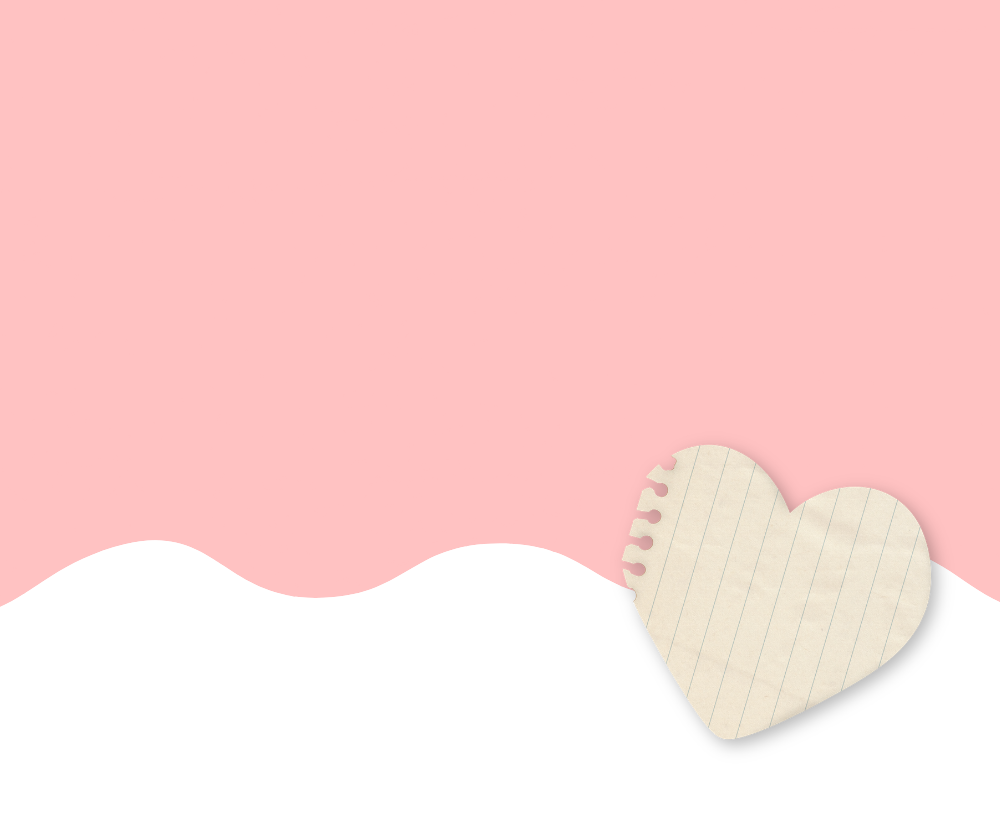
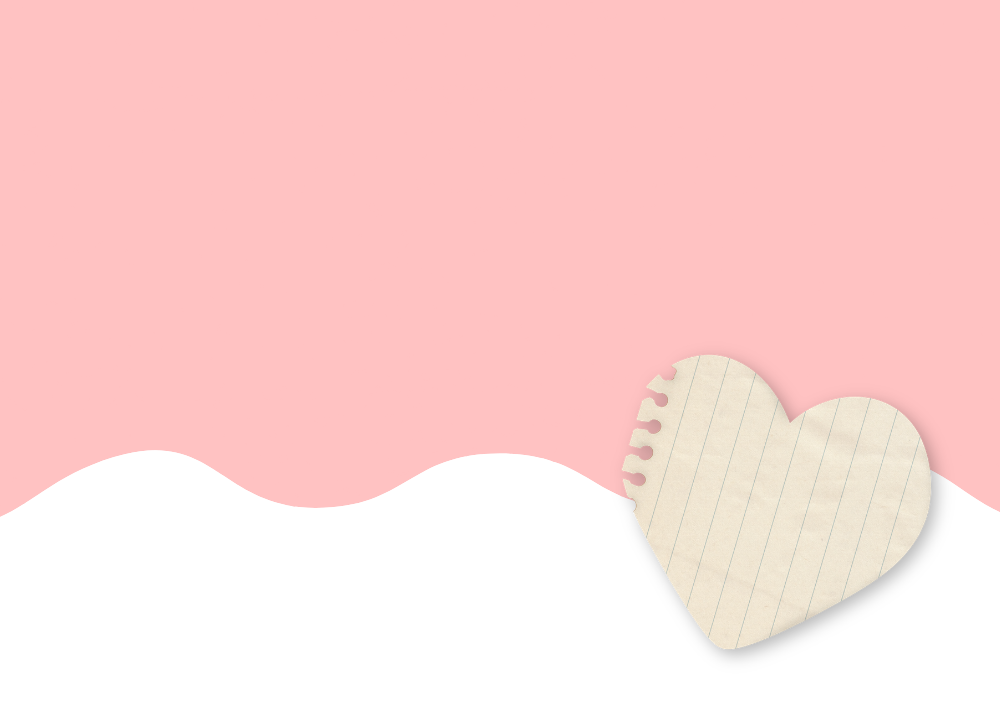
Finished Navigation Bar

Changed region(s): [[0.0, 0.4869, 1.0, 0.852], [0.713, 0.6999, 0.93, 0.9129], [0.682, 0.852, 0.713, 0.8824]]

diff --git a/style.css b/style.css
@@ -1,4 +1,61 @@
 
+@font-face {
+    font-family: "roca";
+    src: url(roca-one-bold/roca-one-bold.ttf);
+    font-style: normal;
+}
+
+nav {
+    position: sticky;
+    top: 0;
+    z-index: 1000; /* stays above content!!!!!!!! */
+    width: 100%;
+    background-color: var(--base-color);
+}
+
+nav ul {
+    list-style-type: none;
+    display: flex;
+    align-items: center;
+    gap: 1em;
+    font-size: 20px;
+    margin: 0;
+    padding: 0 35px;
+}
+
+nav li:last-child {
+    margin-left: auto;
+}
+
+nav li :hover {
+    transition: 100ms ease;
+    scale: 1.05;
+}
+
+a {
+    text-decoration: none;
+}
+
+h2 {
+    font-family: 'roca', 'Times New Roman', Times, serif;
+    color: var(--primary-color);
+    text-shadow: 2px 1px .25px var(--black);
+}
+
+:root {
+    --base-color: #ffc2c2;
+    --primary-color: #fff27d;
+    --secondary-color: #fff5ec;
+    --black: #000000;
+}
+
+h1{
+    font-family: 'roca','Times New Roman', Times, serif;
+    font-size: 125px;
+    color: var(--primary-color);
+    text-shadow: 2px 1px 2px var(--black);
+}
+
 body {
     margin: 0;
     padding: 0;
@@ -11,8 +68,10 @@ img {
 .centered-text {
     position: absolute;
     top: 50%;
-    width: 50%;
-    transform: translate(95%, -250%);
+    width: 100%;
+    transform: translate(0%, -90%);
+    text-align: center;
+    line-height: 1;
     
 }
 
@@ -20,3 +79,35 @@ img {
     position: relative;
 }
 
+h3 {
+    font-family: 'roca','Times New Roman', Times, serif;
+    color: black;
+    text-shadow: none;
+    font-size: 55px;
+}
+
+.instructions {
+    position: absolute;
+    top: 50%;
+    width: 100%;
+    transform: rotate(-3deg);
+    transform: translate(-15%, 155%);
+    text-align: center;
+    line-height: 1;
+    
+}
+
+@media only screen and (min-width: 0px) and (max-width:1024px) {
+    h1 {
+        font-size: 50px;
+    }
+
+    h2 {
+        font-size: 20px;
+    }
+
+    nav ul {
+        gap: 1em;
+    }
+
+}

diff --git a/index.html b/index.html
@@ -2,21 +2,37 @@
     <!DOCTYPE html>
     <html lang="en">
 <head>
-    <title>dear teachers</title>
+    <title>teacher appreciation!</title>
     <link rel="stylesheet" href="style.css">
     <meta charset="UTF-8">
+    <link rel="icon" type="image/png" href="assets/logo.png">
 
 </head>
 
 <body>
-    <section>
-        <div class="title-top">
-       <img src="assets/top-image.png">
-        <div class="centered-text"> 
-            <h1>Teachers</h1>
+    <header id="#home">
+        <nav>
+            <ul>
+                <li> <a href="index.html#home"><img style="height: 65px; width: auto;" src="assets/logo.png" ></a></li>
+                <li><a href="index.html#home"><h2>home</h2></a></li>
+                <li><h2>search teacher name</h2></li>
+            </ul>
+
+        </nav>
+        <section>
+            <div style="object-fit: cover;" class="title-top">
+        <img src="assets/top-image.png">
+            <div class="centered-text"> 
+                <h1>happy teacher <br> appreciation <br> week!</h1>
+            </div>
         </div>
-       </div>
-    </section>
+        </section>
+
+        <div class="instructions">
+            <h3>Scroll down and find <br> the notes left by your <br> students!</h3>
+        </div>
+        
+    </header>
     
 
 </body>